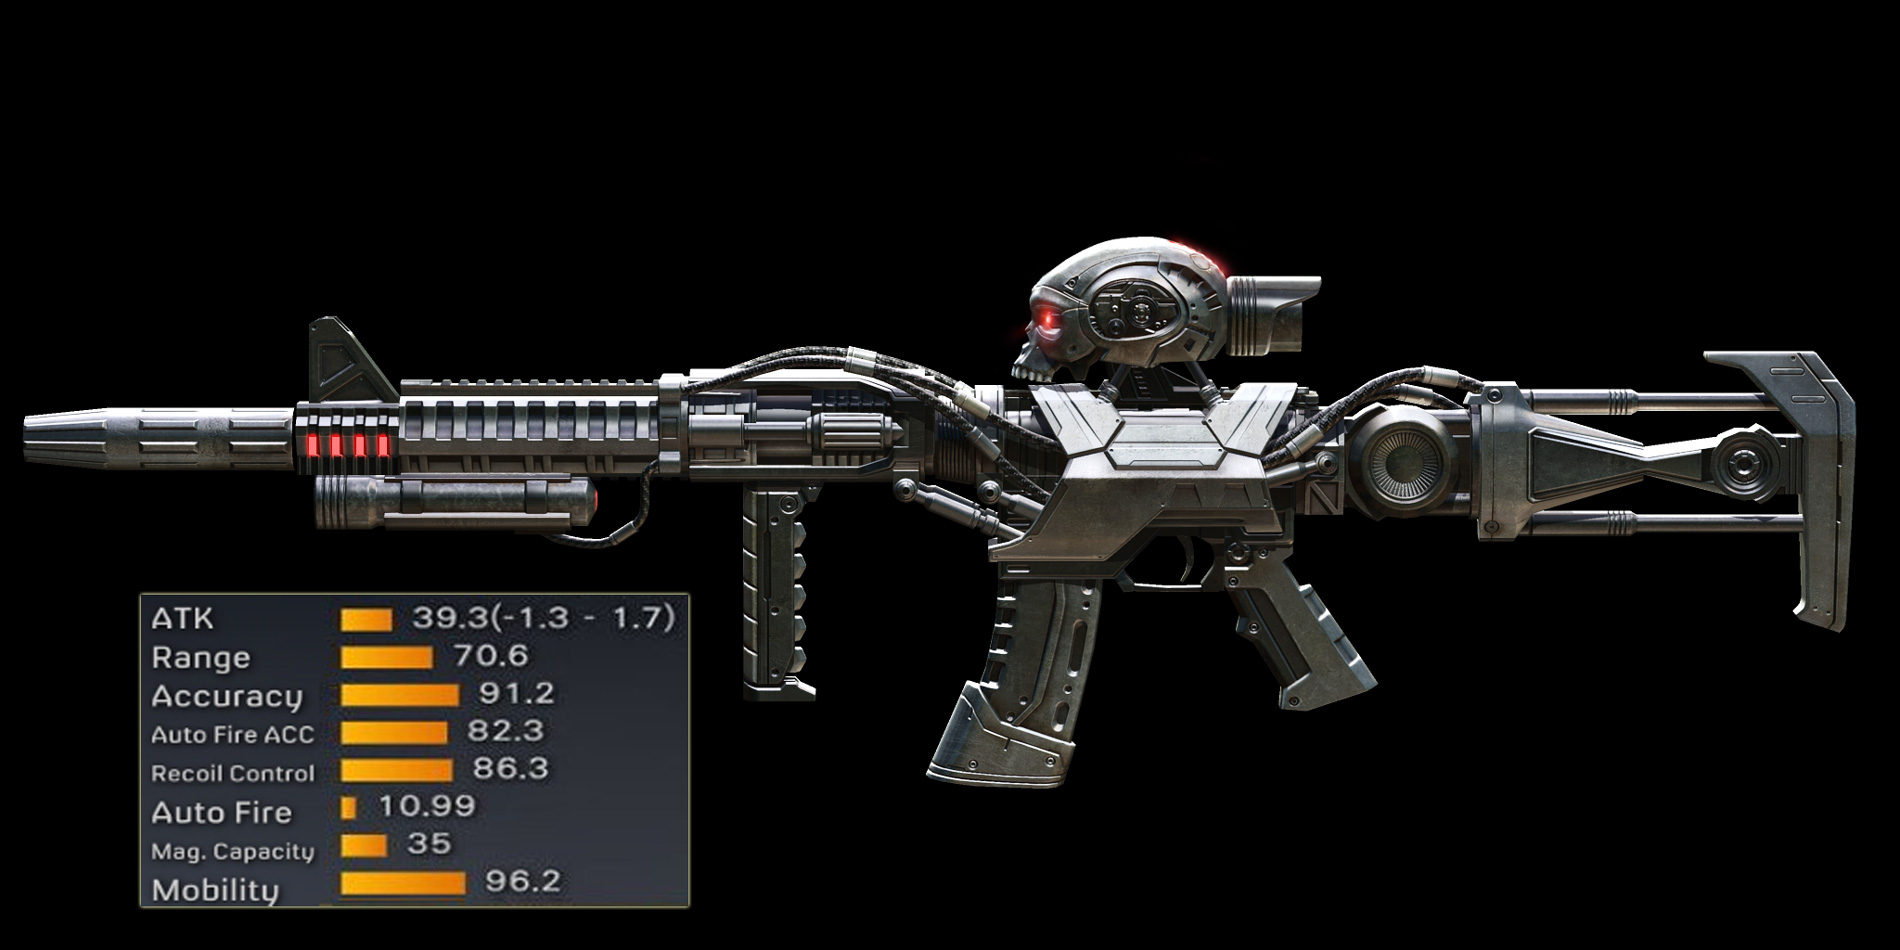
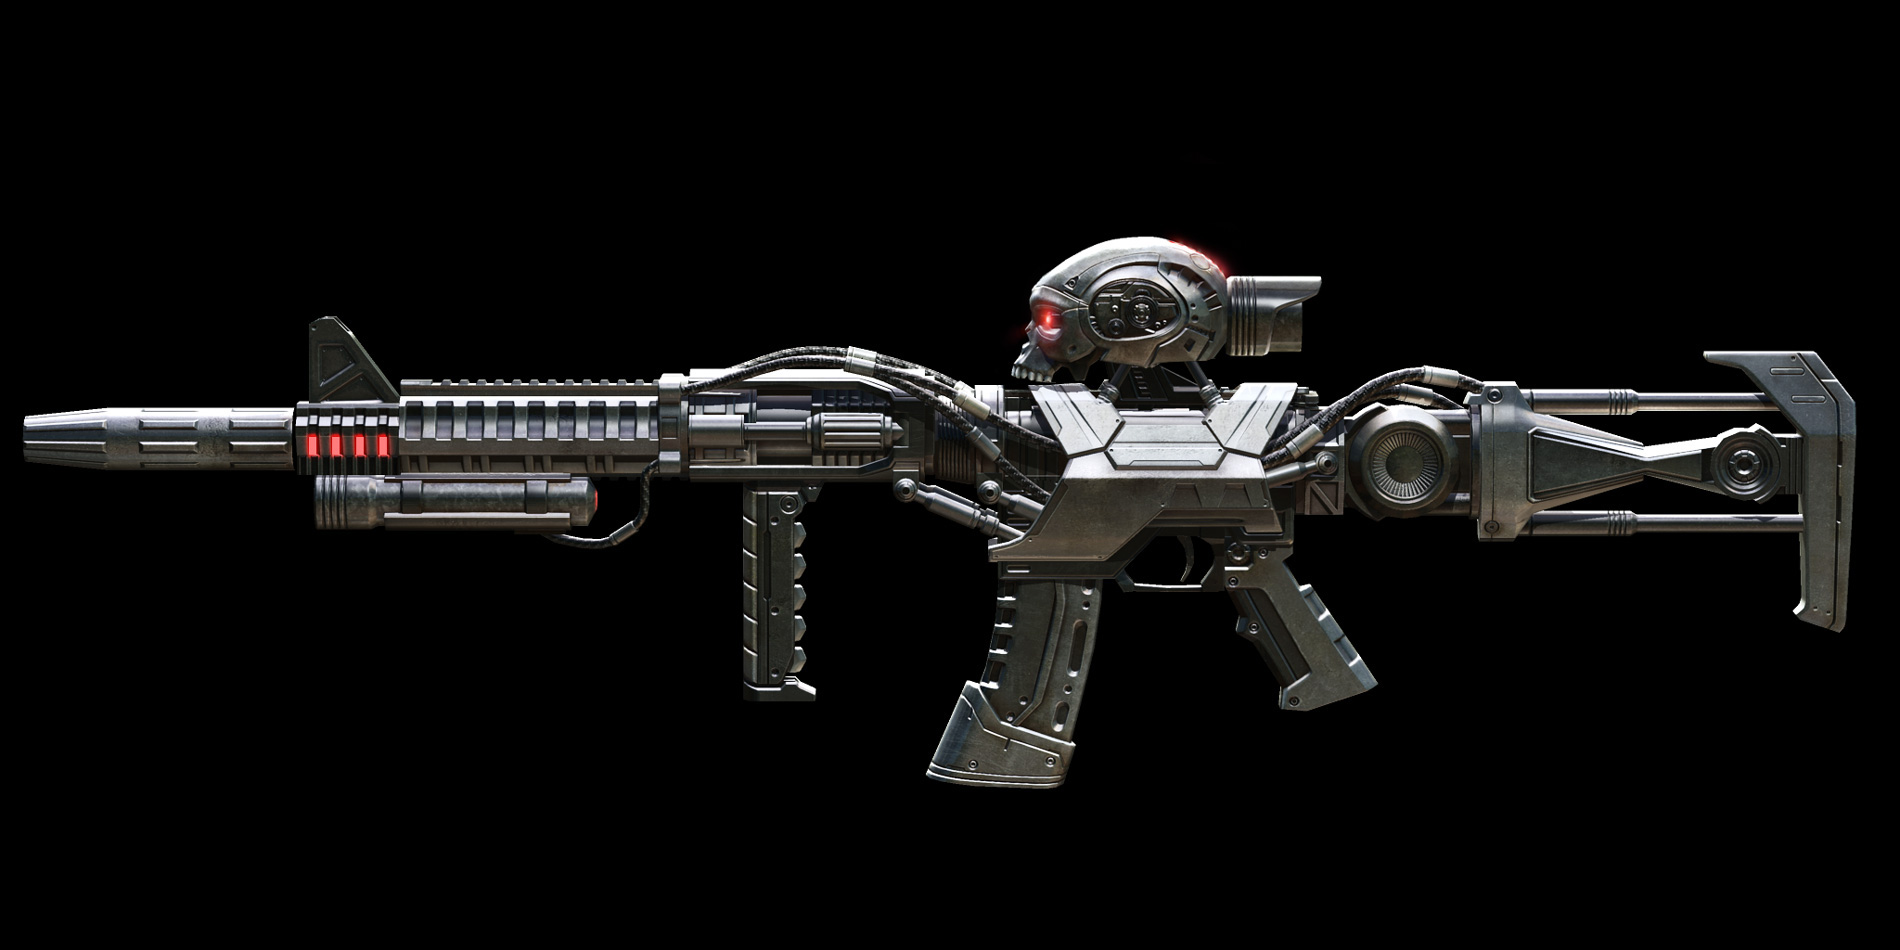
gallery added

Changed region(s): [[0.0621, 0.6105, 0.3726, 0.9768]]

diff --git a/script.js b/script.js
@@ -1,17 +1,58 @@
 var i=0;
 var picture = 0;
-var picture2 = 0;
 
 $(document).ready(function() {
 $("#menu_video").css("background", "#6afbff");
 
-var pictures = ["#pic1", "#pic2" ,"#pic3","#pic4", "#pic5" ,"#pic6", "#pic7", "#pic8" ,"#pic9","#pic10" ];
-var stats1=[40, 66.9, 94.6, 87.5,87.7,10,32,94.3 ];
+var pictures = ["pic1", "pic2" ,"pic3","pic4", "pic5" ,"pic6", "pic7", "pic8" ,"pic9"];
+var weapon_names= {pic1: "AK-74M War Machine" , pic2:"AK-47 Human Fighter" ,pic3:"AR-57 Fighting Machine" ,pic4:"R93 Old Machine" , pic5:"L96A1 Human Warrior" ,pic6:"M16A4 Absolute Machine" , pic7:"MP5K Liquid Machine", pic8:"SVD Violet Machine" ,pic9:"GalilMAR Future Machine" };
+
+var atk = {pic1: 40 , pic2:45 ,pic3:36 ,pic4:120.7 , pic5:126 ,pic6:39.3 , pic7:38 , pic8:101 ,pic9:38.9 };
+var range = {pic1: 66.9 , pic2:68.7 ,pic3:36.2 ,pic4:87.5 , pic5:98.1 ,pic6:70.6 , pic7:47 , pic8:85.2 ,pic9:46 };
+var acc = {pic1: 94.6 , pic2:89.9 ,pic3:81.8 ,pic4:91.4 , pic5:88.8 ,pic6:91.2 , pic7:81.5 , pic8:95.7 ,pic9:81.3 };
+var autofireacc = {pic1: 87.5 , pic2:79.2 ,pic3:77.5 ,pic4:0 , pic5:0 ,pic6:82.3 , pic7:80.5 , pic8:83.8 ,pic9:70.2 };
+var recoil = {pic1: 87.7 , pic2:83 ,pic3:93.2 ,pic4:79 , pic5:69.9 ,pic6:86.3 , pic7:89.3 , pic8:78.2 ,pic9:88.4 };
+var autofire = {pic1: 10 , pic2:9.35 ,pic3:12.35 ,pic4:0.94 , pic5:0.91 ,pic6:10.99 , pic7:12.5 , pic8:2.38 ,pic9:12.5 };
+var magcap = {pic1: 32 , pic2:32 ,pic3:54 ,pic4:6 , pic5:6 ,pic6:35 , pic7:32 , pic8:11 ,pic9:38 };
+var mob = {pic1: 94.3 , pic2:93.5 ,pic3:90.8 ,pic4:95.5 , pic5:96.4 ,pic6:96.2 , pic7:93.6 , pic8:95.5 ,pic9:92.6 };
+
+$("#p3_titel").text("AK-74M War Machine");
 
 $("#pic1").fadeIn();
+
 $("#stat1").animate({
-           width: '+='+stats1[0]+'px'
+           width: '+='+parseInt(atk["pic1"], 10)+'px'
        });
+$("#stat1_value").text(atk["pic1"]);
+$("#stat2").animate({
+           width: '+='+parseInt(range["pic1"], 10)+'px'
+       });
+$("#stat2_value").text(range["pic1"]);
+$("#stat3").animate({
+           width: '+='+parseInt(acc["pic1"], 10)+'px'
+       });
+$("#stat3_value").text(acc["pic1"]);
+$("#stat4").animate({
+           width: '+='+parseInt(autofireacc["pic1"], 10)+'px'
+       });
+$("#stat4_value").text(autofireacc["pic1"]);
+$("#stat5").animate({
+           width: '+='+parseInt(recoil["pic1"], 10)+'px'
+       });
+$("#stat5_value").text(recoil["pic1"]);
+$("#stat6").animate({
+           width: '+='+parseInt(autofire["pic1"], 10)+'px'
+       });
+$("#stat6_value").text(autofire["pic1"]);
+$("#stat7").animate({
+           width: '+='+parseInt(magcap["pic1"], 10)+'px'
+       });
+$("#stat7_value").text(magcap["pic1"]);
+$("#stat8").animate({
+           width: '+='+parseInt(mob["pic1"], 10)+'px'
+       }); 
+$("#stat8_value").text(mob["pic1"]);
+
 $("#pic2").fadeOut();
 $("#pic3").fadeOut();
 $("#pic4").fadeOut();
@@ -20,9 +61,11 @@ $("#pic6").fadeOut();
 $("#pic7").fadeOut();
 $("#pic8").fadeOut();
 $("#pic9").fadeOut();
-$("#pic10").fadeOut();
 
 $("#move_left").click(function(){
+
+$(".gallery_stat").css("width", "100px");
+	
 $("#pic1").fadeOut();
 $("#pic2").fadeOut();
 $("#pic3").fadeOut();
@@ -32,15 +75,60 @@ $("#pic6").fadeOut();
 $("#pic7").fadeOut();
 $("#pic8").fadeOut();
 $("#pic9").fadeOut();
-$("#pic10").fadeOut();
 i=i-1;
-if (i<0) i=9;
+if (i<0) i=8;
 else;
+
 picture = pictures[i];
+$("#p3_titel").text(weapon_names[picture]);
+$("#stat1").animate({
+           width: '+='+parseInt(atk[picture], 10)+'px'
+       });
+$("#stat1_value").text(atk[picture]);
+
+$("#stat2").animate({
+           width: '+='+parseInt(range[picture], 10)+'px'
+       });
+$("#stat2_value").text(range[picture]);
+
+$("#stat3").animate({
+           width: '+='+parseInt(acc[picture], 10)+'px'
+       });
+$("#stat3_value").text(acc[picture]);
+
+$("#stat4").animate({
+           width: '+='+parseInt(autofireacc[picture], 10)+'px'
+       });
+$("#stat4_value").text(autofireacc[picture]);
+
+$("#stat5").animate({
+           width: '+='+parseInt(recoil[picture], 10)+'px'
+       });
+$("#stat5_value").text(recoil[picture]);
+
+$("#stat6").animate({
+           width: '+='+parseInt(autofire[picture], 10)+'px'
+       });
+$("#stat6_value").text(autofire[picture]);
+
+$("#stat7").animate({
+           width: '+='+parseInt(magcap[picture], 10)+'px'
+       });
+$("#stat7_value").text(magcap[picture]);
+
+$("#stat8").animate({
+           width: '+='+parseInt(mob[picture], 10)+'px'
+       });
+$("#stat8_value").text(mob[picture]);
+
+ picture= "#"+picture;
 $(picture).fadeIn();
-});
+}); 
 
 $("#move_right").click(function(){
+	
+$(".gallery_stat").css("width", "100px");
+
 $("#pic1").fadeOut();
 $("#pic2").fadeOut();
 $("#pic3").fadeOut();
@@ -50,11 +138,52 @@ $("#pic6").fadeOut();
 $("#pic7").fadeOut();
 $("#pic8").fadeOut();
 $("#pic9").fadeOut();
-$("#pic10").fadeOut();
 i=i+1;
-if (i>9) i=0;
+if (i>8) i=0;
 else;
 picture = pictures[i];
+$("#p3_titel").text(weapon_names[picture]);
+$("#stat1").animate({
+           width: '+='+parseInt(atk[picture], 10)+'px'
+       });
+$("#stat1_value").text(atk[picture]);
+
+$("#stat2").animate({
+           width: '+='+parseInt(range[picture], 10)+'px'
+       });
+$("#stat2_value").text(range[picture]);
+
+$("#stat3").animate({
+           width: '+='+parseInt(acc[picture], 10)+'px'
+       });
+$("#stat3_value").text(acc[picture]);
+
+$("#stat4").animate({
+           width: '+='+parseInt(autofireacc[picture], 10)+'px'
+       });
+$("#stat4_value").text(autofireacc[picture]);
+
+$("#stat5").animate({
+           width: '+='+parseInt(recoil[picture], 10)+'px'
+       });
+$("#stat5_value").text(recoil[picture]);
+
+$("#stat6").animate({
+           width: '+='+parseInt(autofire[picture], 10)+'px'
+       });
+$("#stat6_value").text(autofire[picture]);
+
+$("#stat7").animate({
+           width: '+='+parseInt(magcap[picture], 10)+'px'
+       });
+$("#stat7_value").text(magcap[picture]);
+
+$("#stat8").animate({
+           width: '+='+parseInt(mob[picture], 10)+'px'
+       });
+$("#stat8_value").text(mob[picture]);
+
+picture= "#"+picture;
 $(picture).fadeIn();
 });
 

diff --git a/index.html b/index.html
@@ -24,24 +24,34 @@
     
     <div id="gallery_section" class="section">
     	        <img id="fslogo" src="img/logo.png">
-				<p id="p3_titel" class="p_titel">BONUS 1</p>
+				<p id="p3_titel" class="p_titel"></p>
 				<div id="p3_gallery1">		
 				<img id="pic1" class="gallery_pic" src="img/AK74M.JPG">
 				<img id="pic2" class="gallery_pic" src="img/AK47_Fortune8.jpg">
 				<img id="pic3" class="gallery_pic" src="img/AR57_Fortune8.jpg">
 				<img id="pic4" class="gallery_pic" src="img/Blaser_R93_Fortune8.jpg">
 				<img id="pic5" class="gallery_pic" src="img/L96A1.jpg">
-				<img id="pic6" class="gallery_pic" src="img/AR57_Fortune8.jpg">
-				<img id="pic7" class="gallery_pic" src="img/M16A4_Fortune8_ren.jpg">
-				<img id="pic8" class="gallery_pic" src="img/MP5K_fortune8.jpg">
-				<img id="pic9" class="gallery_pic" src="img/sn_SVD_Fortune8.jpg">
-				<img id="pic10" class="gallery_pic" src="img/Wp_GalilMAR_Fortune8_Ren.jpg">
+				<img id="pic6" class="gallery_pic" src="img/M16A4_Fortune8_ren.jpg">
+				<img id="pic7" class="gallery_pic" src="img/MP5K_fortune8.jpg">
+				<img id="pic8" class="gallery_pic" src="img/sn_SVD_Fortune8.jpg">
+				<img id="pic9" class="gallery_pic" src="img/Wp_GalilMAR_Fortune8_Ren.jpg">
 				
 				<div id="move_left"><img id="left_arrow" src="img/left_arrow.png"></div>
 				<div id="move_right"><img id="right_arrow" src="img/right_arrow.png"></div>	
 				</div>
 				<div id="stats">
-				<p>ATK</p><div id="stat1" class="gallery_stat"></div>
+				<div id="left_block">
+				<div id="stat1" class="gallery_stat">ATK</div><p id="stat1_value"></p></br>
+				<div id="stat2" class="gallery_stat">Range</div><p id="stat2_value"></p></br>
+				<div id="stat3" class="gallery_stat">Accuracy</div><p id="stat3_value"></p></br>
+				<div id="stat4" class="gallery_stat">AutoFire ACC</div><p id="stat4_value"></p></br>
+				</div>
+				<div id="right_block">
+				<div id="stat5" class="gallery_stat">Recoil Ctr.</div><p id="stat5_value"></p></br>
+				<div id="stat6" class="gallery_stat">Auto fire</div><p id="stat6_value"></p></br>
+				<div id="stat7" class="gallery_stat">Mag. Cap.</div><p id="stat7_value"></p></br>
+				<div id="stat8" class="gallery_stat">Mobillity</div><p id="stat8_value"></p></br>
+				</div>
 				</div>
 	</div>
 	
@@ -63,11 +73,6 @@
 	<a href="http://grandfantasia.aeriagames.com/"><img id="notes_image" src="img/notes.png"></a>
 	</div>
 	</div>
-</div>
-
-
-<div id="footer">
-Footer
 </div>
 
 </body>

diff --git a/style.css b/style.css
@@ -26,16 +26,6 @@ left:0;
 margin-bottom:1em;
 }
 
-#link_back {
-    color: #ffffff;
-    left: 5%;
-    opacity: 0.8;
-    position: absolute;
-    text-decoration: none;
-    top: 5px;
-	z-index: 5;
-	font-size:20px;
-}
 
 #level_section
 {
@@ -60,18 +50,6 @@ margin-bottom:1em;
     width: 100%;
 }
 
-#footer {
-    background: url("http://s.aeriastatic.com/files/portal/image/L/LP_footer_pattern.png") repeat-x scroll center top #000000;
-    display: block;
-    height: 200px;
-    line-height: 5px;
-    margin: auto;
-    overflow: visible;
-    position: relative;
-    text-align: center;
-    vertical-align: middle;
-    width: 100%;
-}
 
 #button_play {
     background: linear-gradient(to bottom, #808080 0%, #a6a6a6 100%) repeat scroll 0 0 rgba(0, 0, 0, 0);
@@ -189,24 +167,34 @@ text-decoration:none;
     width: 400px;
 }
 
-#p3_gallery1, #stats
+#p3_gallery1
 {
     background-color: rgba(0, 0, 0, 0.5);
-    height: 525px;
+    height: 420px;
     left: 50%;
     margin-left: -400px;
-    margin-top: 20px;
     position: relative;
     width: 795px;
     z-index: 10;
 }
+
+#right_block {
+  float: right;
+  width: 40%;
+  padding:5px;
+}
+#left_block {
+  float: left;
+  width: 40%;
+  padding:5px;
+}
+
 #stats
 {
-    margin-top:0.5em;
-    left: 60%;
-    
+    margin-left:20%;
+       
 }
-	
+
 .gallery_pic
 {
       left: 50%;
@@ -218,21 +206,24 @@ text-decoration:none;
 	  z-index: 10;
 }
 
-.gallery_stat {
-    background: -webkit-linear-gradient(left, red , blue); /* For Safari 5.1 to 6.0 */
-    background: -o-linear-gradient(right, red, blue); /* For Opera 11.1 to 12.0 */
-    background: -moz-linear-gradient(right, red, blue); /* For Firefox 3.6 to 15 */
-    background: linear-gradient(to right, red , blue); /* Standard syntax */
+.gallery_stat{
+    background: -webkit-linear-gradient(left, #FFCC00 , #FF9900); /* For Safari 5.1 to 6.0 */
+    background: -o-linear-gradient(right, #FFCC00 , #FF9900); /* For Opera 11.1 to 12.0 */
+    background: -moz-linear-gradient(right, #FFCC00 , #FF9900); /* For Firefox 3.6 to 15 */
+    background: linear-gradient(to right, #FFCC00 , #FF9900); /* Standard syntax */
     border-color: #404040;
     border-style: solid;
     border-width: 1px;
     box-shadow: 0 4px 10px #000000;
     color: #ffffff;
-    height: 5px;
+    font-size:15px;
+    height: 20px;
     position: relative;
-    width: 5px;
     z-index: 100;
+    width:100px;
+    padding-left:10px;
 }
+
 
 #fslogo
 {
